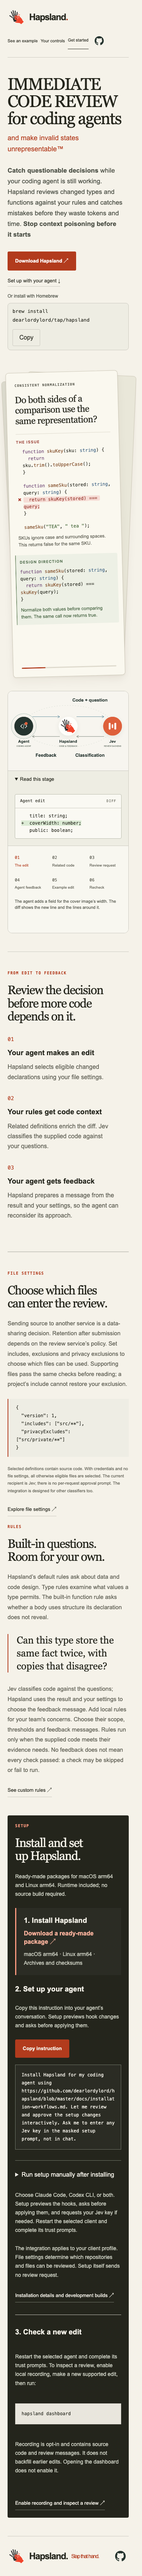
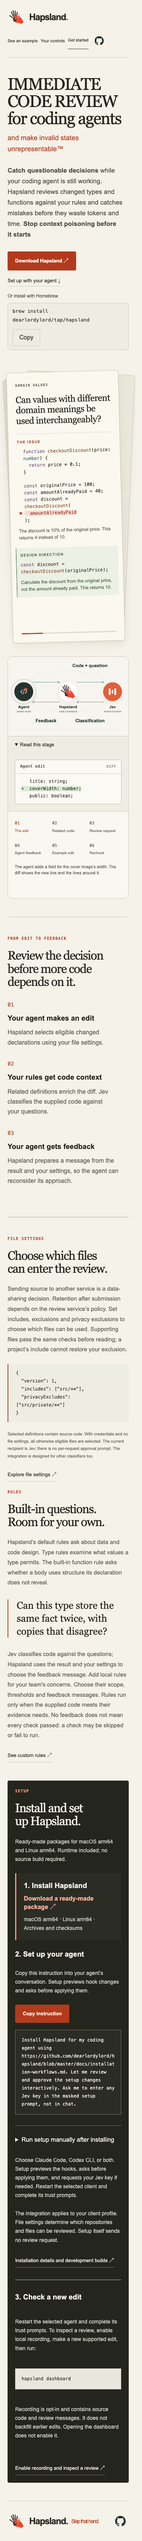
Remove policy-dependent landing examples

diff --git a/packages/agent-flow-viz/site/content.ts b/packages/agent-flow-viz/site/content.ts
@@ -156,92 +156,6 @@ export const COMMENTS = [
       { kind: "plain", text: "(query);\n}" }
     ],
     repairNote: "Normalize both values before comparing them. The same call now returns true."
-  },
-  {
-    label: "OVERRIDE PRECEDENCE",
-    quote: "Can a default silently replace a choice the user already made?",
-    code: [
-      { kind: "keyword", text: "type" },
-      { kind: "plain", text: " " },
-      { kind: "type", text: "BillingSettings" },
-      { kind: "plain", text: " = {\n  currency: " },
-      { kind: "type", text: "string" },
-      { kind: "plain", text: ";\n};\n" },
-      { kind: "keyword", text: "function" },
-      { kind: "plain", text: " " },
-      { kind: "function", text: "billingSettings" },
-      { kind: "plain", text: "(\n  defaults: " },
-      { kind: "type", text: "BillingSettings" },
-      { kind: "plain", text: ",\n  account: " },
-      { kind: "type", text: "BillingSettings" },
-      { kind: "plain", text: "\n) {\n" },
-      { kind: "plain", text: "  return { ...account, ...defaults };", emphasis: "conflict" },
-      { kind: "plain", text: "\n}\n" },
-      { kind: "keyword", text: "const" },
-      { kind: "plain", text: " settings = " },
-      { kind: "function", text: "billingSettings" },
-      { kind: "plain", text: "(\n  { currency: " },
-      { kind: "string", text: '"USD"' },
-      { kind: "plain", text: " },\n  { currency: " },
-      { kind: "string", text: '"EUR"' },
-      { kind: "plain", text: " }\n);" }
-    ],
-    note: "The account chose EUR. The default overwrites it with USD.",
-    repair: [
-      { kind: "keyword", text: "function" },
-      { kind: "plain", text: " " },
-      { kind: "function", text: "billingSettings" },
-      { kind: "plain", text: "(\n  defaults: " },
-      { kind: "type", text: "BillingSettings" },
-      { kind: "plain", text: ",\n  account: " },
-      { kind: "type", text: "BillingSettings" },
-      { kind: "plain", text: "\n) {\n  " },
-      { kind: "keyword", text: "return" },
-      { kind: "plain", text: " { ...defaults, ...account };\n}" }
-    ],
-    repairNote: "Apply defaults first, then the account settings. The account choice wins."
-  },
-  {
-    label: "SOURCE OF TRUTH",
-    quote: "Does the calculation use the fact that actually determines the result?",
-    code: [
-      { kind: "keyword", text: "type" },
-      { kind: "plain", text: " " },
-      { kind: "type", text: "OrderLine" },
-      { kind: "plain", text: " = {\n  unitPriceAtPurchase: " },
-      { kind: "type", text: "number" },
-      { kind: "plain", text: ";\n  quantity: " },
-      { kind: "type", text: "number" },
-      { kind: "plain", text: ";\n};\n" },
-      { kind: "keyword", text: "type" },
-      { kind: "plain", text: " " },
-      { kind: "type", text: "Product" },
-      { kind: "plain", text: " = { currentUnitPrice: " },
-      { kind: "type", text: "number" },
-      { kind: "plain", text: " };\n" },
-      { kind: "keyword", text: "function" },
-      { kind: "plain", text: " " },
-      { kind: "function", text: "refund" },
-      { kind: "plain", text: "(line: " },
-      { kind: "type", text: "OrderLine" },
-      { kind: "plain", text: ",\n  product: " },
-      { kind: "type", text: "Product" },
-      { kind: "plain", text: ") {\n" },
-      { kind: "plain", text: "  return product.currentUnitPrice", emphasis: "conflict" },
-      { kind: "plain", text: "\n    * line.quantity;\n}" }
-    ],
-    note: "Bought at 100, now priced at 150: two items get a refund of 300 instead of 200.",
-    repair: [
-      { kind: "keyword", text: "function" },
-      { kind: "plain", text: " " },
-      { kind: "function", text: "refund" },
-      { kind: "plain", text: "(line: " },
-      { kind: "type", text: "OrderLine" },
-      { kind: "plain", text: ") {\n  " },
-      { kind: "keyword", text: "return" },
-      { kind: "plain", text: " line.unitPriceAtPurchase\n    * line.quantity;\n}" }
-    ],
-    repairNote: "Use the price paid at purchase. Repricing the catalog should not change a refund."
   }
 ] as const satisfies readonly {
   label: string

diff --git a/packages/agent-flow-viz/README.md b/packages/agent-flow-viz/README.md
@@ -80,7 +80,7 @@ The animation starts immediately and repeats all six stages. Clicking a stage
 selects it and restarts its four-second interval without pausing playback.
 The stage buttons are the only playback navigation. Reduced-motion users get
 static frames selected through those same buttons; changing that preference
-stops motion. The hero's six review cards support timed progress, swiping,
+stops motion. The hero's four review cards support timed progress, swiping,
 mouse dragging and arrow-key navigation. No page calls Jev or reads repository source.
 
 `src/import-graph-replay.ts` owns shared scenario replay through the compiled
